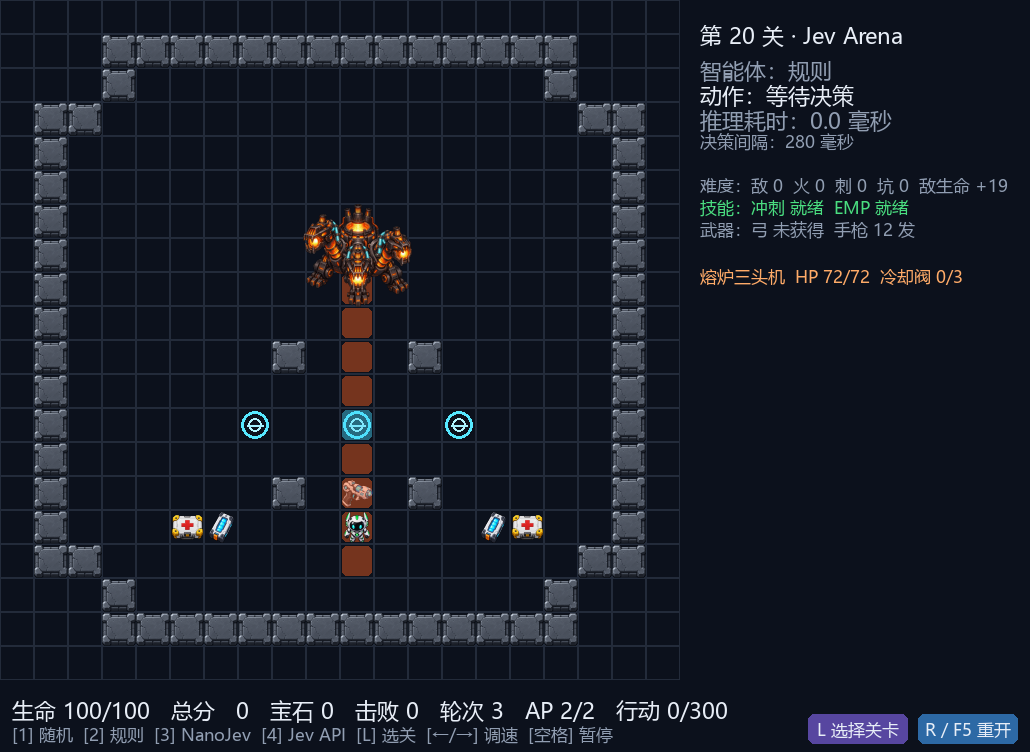
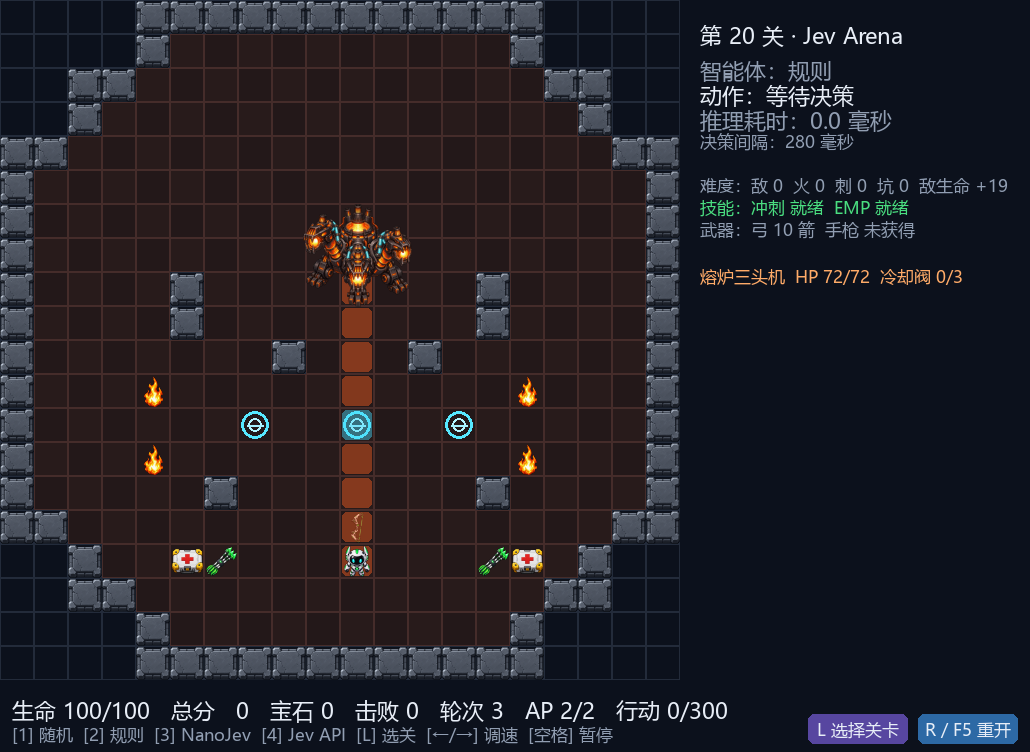
feat: give furnace boss a larger themed arena and bow supplies

diff --git a/arena/env.py b/arena/env.py
@@ -144,27 +144,43 @@ class ArenaEnv:
         self.boss: PrismWarden | FurnaceHydra | None = None
         self.reflectors: set[tuple[int, int]] = set()
         self.coolant_valves: set[tuple[int, int]] = set()
+        self.forge_floor: set[tuple[int, int]] = set()
         if self.config.difficulty_level in (10, 20) and self.config.finish_on_all_gems:
-            self.player = Player((10, 15), loadout=self.loadout)
-            self.player.loadout.pistol = True
-            self.player.loadout.energy = max(12, self.player.loadout.energy)
-            room = {(x, y) for y in range(1, 19)
-                    for x in range(3 if y in (1, 2, 17, 18) else 1,
-                                   17 if y in (1, 2, 17, 18) else 19)}
+            furnace = self.config.difficulty_level == 20
+            self.player = Player((10, 16 if furnace else 15), loadout=self.loadout)
+            if furnace:
+                self.player.loadout.bow = True
+                self.player.loadout.arrows = max(10, self.player.loadout.arrows)
+                room = {(x, y) for y in range(20)
+                        for x in range(4 if y in (0, 1, 18, 19) else
+                                       2 if y in (2, 3, 16, 17) else 0,
+                                       16 if y in (0, 1, 18, 19) else
+                                       18 if y in (2, 3, 16, 17) else 20)}
+            else:
+                self.player.loadout.pistol = True
+                self.player.loadout.energy = max(12, self.player.loadout.energy)
+                room = {(x, y) for y in range(1, 19)
+                        for x in range(3 if y in (1, 2, 17, 18) else 1,
+                                       17 if y in (1, 2, 17, 18) else 19)}
             self.walls = {cell for cell in room
                           if any(self.add(cell, direction) not in room for direction in DIRECTIONS)}
             self.enemies, self.gems, self.fires, self.spikes = [], set(), set(), set()
             self.pits, self.barrels = set(), set()
-            self.bow_pickups, self.pistol_pickups = set(), {(10, 14)}
-            self.arrow_bundles = set()
             if self.config.difficulty_level == 10:
                 self.walls |= {(6, 10), (14, 10), (6, 13), (14, 13)}
                 self.medkits, self.energy_cells = {(7, 14), (13, 14)}, {(7, 15), (13, 15)}
+                self.bow_pickups, self.pistol_pickups = set(), {(10, 14)}
+                self.arrow_bundles = set()
                 self.reflectors = {(x, 12) for x in (9, 10, 11)}
                 self.boss = PrismWarden()
             else:
-                self.walls |= {(8, 10), (12, 10), (8, 14), (12, 14)}
-                self.medkits, self.energy_cells = {(5, 15), (15, 15)}, {(6, 15), (14, 15)}
+                self.walls |= {(5, 8), (14, 8), (5, 9), (14, 9),
+                               (8, 10), (12, 10), (6, 14), (14, 14)}
+                self.forge_floor = room - self.walls
+                self.fires = {(4, 11), (15, 11), (4, 13), (15, 13)}
+                self.medkits, self.energy_cells = {(5, 16), (15, 16)}, set()
+                self.bow_pickups, self.pistol_pickups = {(10, 15)}, set()
+                self.arrow_bundles = {(6, 16), (14, 16)}
                 self.coolant_valves = {(x, 12) for x in (7, 10, 13)}
                 self.boss = FurnaceHydra()
             return

diff --git a/tests/test_boss.py b/tests/test_boss.py
@@ -80,9 +80,17 @@ class PrismBossTests(unittest.TestCase):
     def test_furnace_room_and_two_distinct_attacks(self):
         env = ArenaEnv(campaign_config(20))
         self.assertEqual(env.coolant_valves, {(7, 12), (10, 12), (13, 12)})
-        self.assertTrue((env.coolant_valves | env.medkits | env.energy_cells) <= env._reachable_cells())
+        self.assertEqual(env.player.position, (10, 16))
+        self.assertTrue(env.player.loadout.bow)
+        self.assertFalse(env.player.loadout.pistol)
+        self.assertEqual(env.bow_pickups, {(10, 15)})
+        self.assertEqual(env.arrow_bundles, {(6, 16), (14, 16)})
+        self.assertGreater(len(env.forge_floor), 220)
+        self.assertTrue((env.coolant_valves | env.medkits | env.arrow_bundles) <= env._reachable_cells())
         self.assertIn("Boss furnace", encode_state(env))
-        self.assertIn("furnace_hydra", build_candidates(env)[Action.SHOOT_PISTOL_N.value])
+        env.player.position = (10, 12)
+        self.assertIn("furnace_hydra", build_candidates(env)[Action.SHOOT_BOW_N.value])
+        env.player.position = (10, 16)
 
         env.round = 3
         env.boss.attack_kind = "wave"

diff --git a/arena/renderer.py b/arena/renderer.py
@@ -67,7 +67,11 @@ class ArenaRenderer:
         for y in range(env.config.height):
             for x in range(env.config.width):
                 rect = pg.Rect(x * self.CELL, y * self.CELL, self.CELL, self.CELL)
-                pg.draw.rect(self.screen, colors["grid"], rect, 1)
+                if (x, y) in env.forge_floor:
+                    pg.draw.rect(self.screen, (35, 24, 25) if (x + y) % 2 else (40, 27, 27), rect)
+                    pg.draw.rect(self.screen, (69, 44, 42), rect, 1)
+                else:
+                    pg.draw.rect(self.screen, colors["grid"], rect, 1)
         for position in env.walls:
             self._sprite(position, "wall")
         for position in env.reflectors:

diff --git a/JEV_ARENA_BOSS_ROADMAP.md b/JEV_ARENA_BOSS_ROADMAP.md
@@ -1,6 +1,6 @@
 # Jev Arena 10～100 关 Boss 规划
 
-> 当前进度（2026-09）：第 10 关棱镜守卫与第 20 关熔炉三头机均已有可玩固定 Boss 房、掩体与补给、机制破盾、独立招式预警和规则代理无伤通关测试。第 20 关有专属火球弹体与熔岩波特效。下文是完整制作目标，不代表第 30～100 关已实现；第 10 关的十字/旋转扫射、四镜柱和逐帧死亡动画，以及第 20 关的三炉头分层动画仍待制作。
+> 当前进度（2026-09）：第 10 关棱镜守卫与第 20 关熔炉三头机均已有可玩固定 Boss 房、掩体与补给、机制破盾、独立招式预警和规则代理无伤通关测试。第 20 关使用更大的锻炉形房间、熔岩边道、弓箭补给，并有专属火球弹体与熔岩波特效。下文是完整制作目标，不代表第 30～100 关已实现；第 10 关的十字/旋转扫射、四镜柱和逐帧死亡动画，以及第 20 关的三炉头分层动画仍待制作。
 
 > Boss 关出现在第 10、20、30……100 关。Boss 难度来自读招、走位和机制反杀，不靠普通怪堆叠、突然秒杀或无限加血。
 
@@ -93,7 +93,7 @@
 
 ## 第 20 关：熔炉三头机
 
-当前可玩版本：火球锁定格与邻格伤害 16，熔岩波沿单列伤害 22；站在对应冷却阀上可无伤化解熔岩波，三阀激活后核心暴露 3 回合。固定大房、掩体、血包、手枪与弹药已接入，规则代理固定场景无伤通关。下列三炉头分层演出、持续燃烧与蒸汽回灌是后续扩展目标。
+当前可玩版本：火球锁定格与邻格伤害 16，熔岩波沿单列伤害 22；站在对应冷却阀上可无伤化解熔岩波，三阀激活后核心暴露 3 回合。比第 10 关更大的锻炉形房间、熔岩边道、掩体、血包、复合弓与箭束已接入，零继承装备也可用规则代理无伤通关。下列三炉头分层演出、持续燃烧与蒸汽回灌是后续扩展目标。
 
 - 三个炉头分别负责横向熔岩、纵向熔岩和扇形喷发。
 - 每轮只激活一个炉头，地面预警显示即将形成的持续燃烧格。

diff --git a/JEV_ARENA_V2_ROADMAP.md b/JEV_ARENA_V2_ROADMAP.md
@@ -1846,7 +1846,7 @@ NanoJev 很快，但能力有限。
 第 10～100 关共 10 只 Boss 的设定、透明贴图和专属特效已准备完成，详细规格见
 `JEV_ARENA_BOSS_ROADMAP.md`。战斗逻辑仍按关卡顺序逐只实现和验证，避免一次堆入十套未经测试的机制。
 
-第 20 关熔炉三头机已有首版可玩战斗：火球与熔岩波独立预警、三座冷却阀破盾、房内补给、固定场景无伤通关测试。第 30～100 关尚未实装。
+第 20 关熔炉三头机已有首版可玩战斗：火球与熔岩波独立预警、三座冷却阀破盾、比第 10 关更大的锻炉形房间、熔岩边道、弓箭与血包补给、固定场景无伤通关测试。第 30～100 关尚未实装。
 
 ---
 
